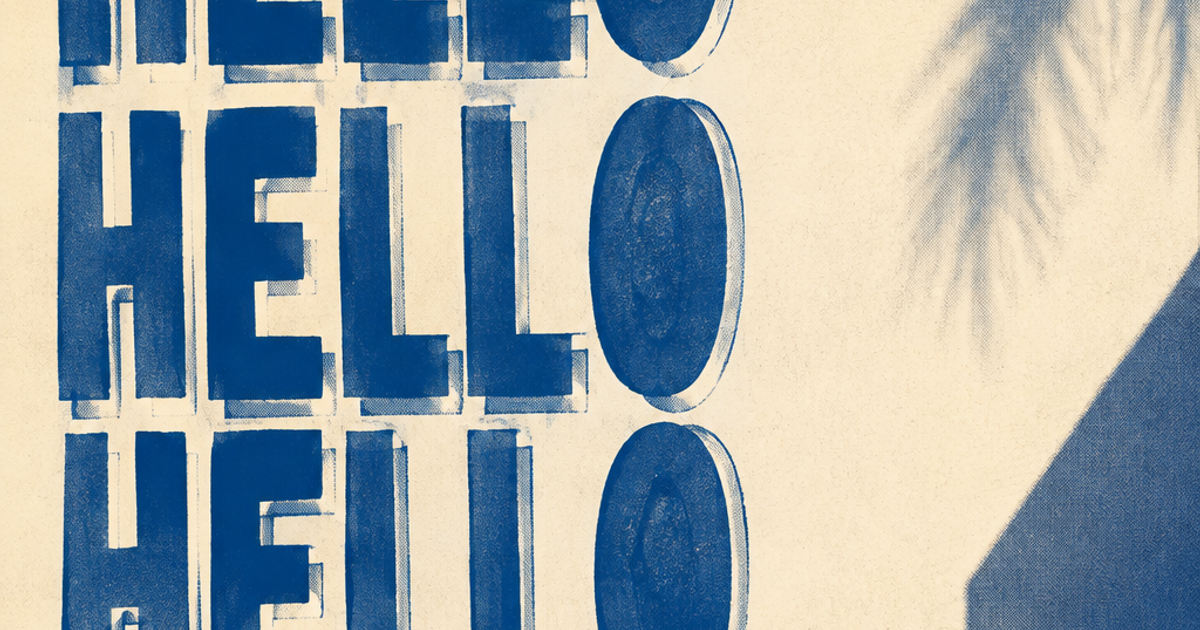
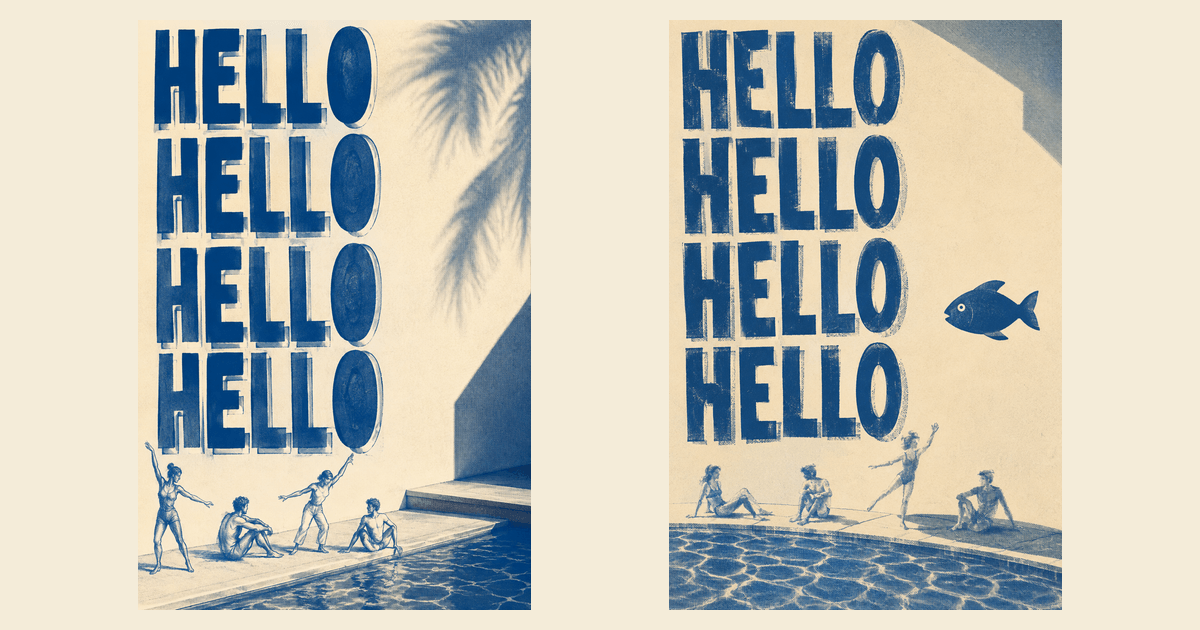
faucet: fish plate on the page, alt text for the real art, OG cards from full plates
Sol landed the two OpenAI plates in fe57381. The page hero already used the
clean plate; the fish plate now sits beside "Why a faucet". Alt text
describes what is actually in the art (pool edge, palm shadow, the fish).
The OG images were centre crops that cut the letters mid-word; they are now
composed cards on cream: both plates side by side for the page, the fish
plate alone for its own card. Sizes drop from ~1.7 MB to under 400 KB.

Claude-Session: https://claude.ai/code/session_01EK9Uih12hsgDLszSwCppZb

diff --git a/docs/briefs/2026-09-04-codex-hello-faucet.md b/docs/briefs/2026-09-04-codex-hello-faucet.md
@@ -11,7 +11,7 @@
 
 Two jobs, in this order.
 
-1. **Two poster plates for HELLO, through ChatGPT's image model.** Mike's later note: *"use chatgpt image generator"*, and *"lets make one with a fish in it, and a clean one."* Replace the placeholders at `public/images/faucet/hello-poster.png` (clean) and `hello-poster-fish.png` (one fish in the quiet right third), each with a `.webp` twin and a 1200×630 OG crop (`hello-og.png`, `hello-og-fish.png`). Direction from Mike: positive, Hockney-and-Warhol HELLO, a little Degas, finished monochrome. cc's attempt through Krea's gpt-image-2 ran out of balance mid-run; if two HELLO plates appear in Mike's Krea history from 2026-09-04, they are those runs and can be used if they pass review.
+1. **DONE 2026-09-04 (Sol, commit `fe57381`): two poster plates for HELLO through ChatGPT's image model.** Both first outputs accepted, no regenerations. Nothing left here for Codex; skip to Job 2.** Mike's later note: *"use chatgpt image generator"*, and *"lets make one with a fish in it, and a clean one."* Replace the placeholders at `public/images/faucet/hello-poster.png` (clean) and `hello-poster-fish.png` (one fish in the quiet right third), each with a `.webp` twin and a 1200×630 OG crop (`hello-og.png`, `hello-og-fish.png`). Direction from Mike: positive, Hockney-and-Warhol HELLO, a little Degas, finished monochrome. cc's attempt through Krea's gpt-image-2 ran out of balance mid-run; if two HELLO plates appear in Mike's Krea history from 2026-09-04, they are those runs and can be used if they pass review.
 2. **Review the faucet code** before Mike funds the spigot wallet. It is a hot wallet that sends a real ERC-20 on Ethereum mainnet from a Cloudflare Pages Function. Nothing ships to mainnet until you have read it.
 
 ## Job 1 — the plate
